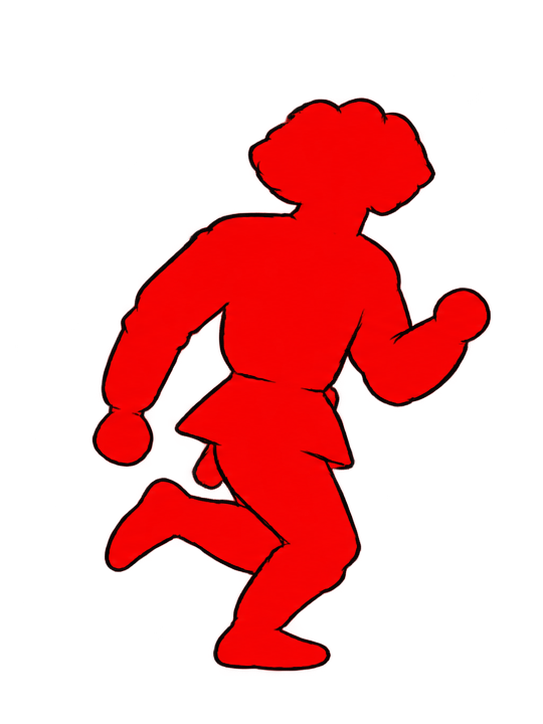
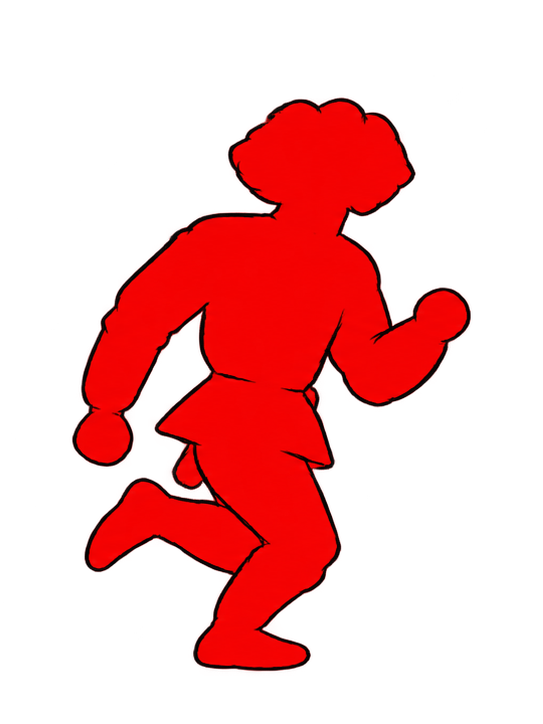
Align run frames and disable game text selection

Changed region(s): [[0.1179, 0.1215, 0.9134, 0.942]]

diff --git a/maska-cheloveka/style.css b/maska-cheloveka/style.css
@@ -2,6 +2,9 @@
   box-sizing: border-box;
   margin: 0;
   padding: 0;
+  -webkit-user-select: none;
+  user-select: none;
+  -webkit-touch-callout: none;
 }
 
 :root {
